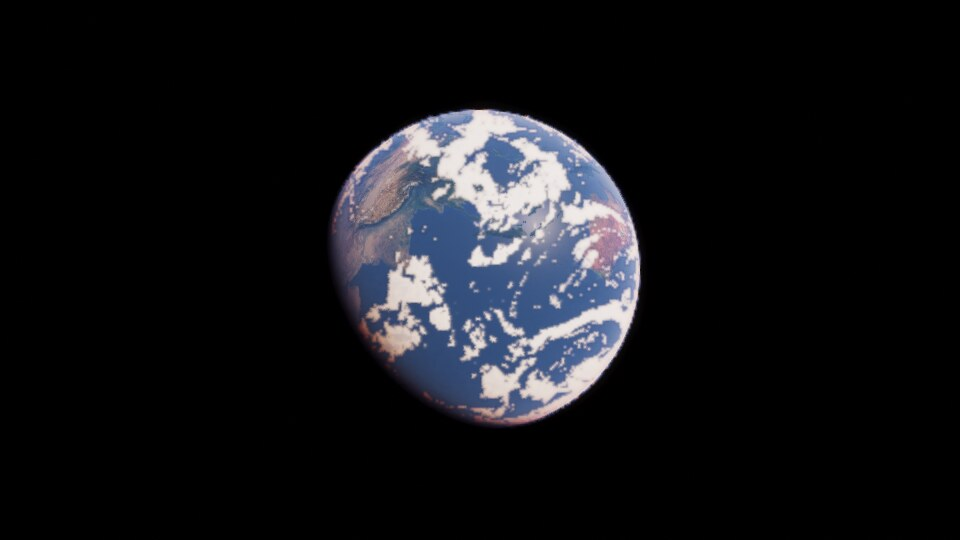
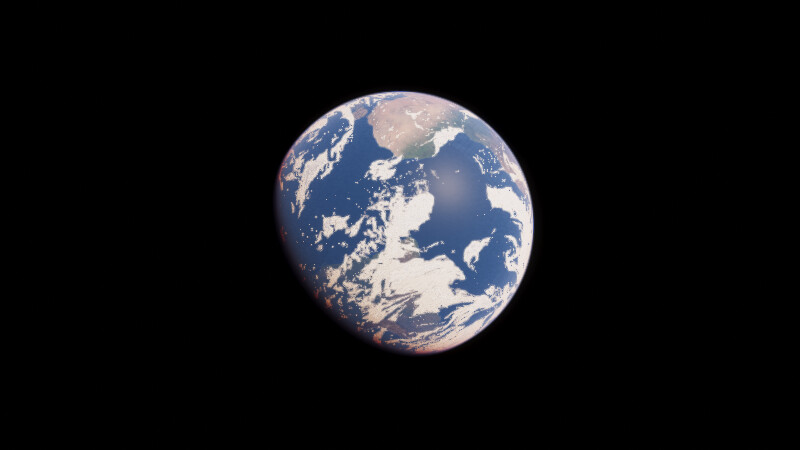
Clouds use observed coverage directly once cloud cells are sub-pixel (no blotchy far view); inclination formatting

Changed region(s): [[0.3438, 0.1867, 0.6875, 0.8089]]

diff --git a/src/atmosphere.js b/src/atmosphere.js
@@ -166,7 +166,9 @@ float cloudDensity(vec3 p, bool cheap, float lod, out float hfrac){
     float soft = mix(0.06, 0.2, cov);
     float thr = 0.5 + (0.5 - cov)*0.75;
     float cell = smoothstep(thr - soft, thr + soft, S);
-    cov = cell*smoothstep(0.02, 0.25, cov);
+    // once the cells are below a pixel, use the observed coverage directly (no blotchy thresholding)
+    float far = clamp((lod - 2.5)/3., 0., 1.);
+    cov = mix(cell*smoothstep(0.02, 0.25, cov), cov, far);
   }
   if (cov < 0.01) return 0.;
   float topH = mix(0.3, 1.0, wm.g)*mix(0.7, 1., cov);

diff --git a/src/system.js b/src/system.js
@@ -630,7 +630,7 @@ export function describeBody(b) {
     rows.push(['Semi-major axis', o.a > 0.01 * C.AU ? fmt(o.a / C.AU, 4) + ' AU' : fmt(o.a / 1e3, 5) + ' km']);
     rows.push(['Orbital period', o.period > C.YEAR ? fmt(o.period / C.YEAR, 4) + ' yr' : o.period > 86400 ? fmt(o.period / 86400, 4) + ' d' : fmt(o.period / 3600) + ' h']);
     rows.push(['Eccentricity', fmt(o.e)]);
-    rows.push(['Inclination', fmt(o.inc / D2R) + '°']);
+    rows.push(['Inclination', (o.inc / D2R).toFixed(2) + '°']);
   }
   return rows;
 }
